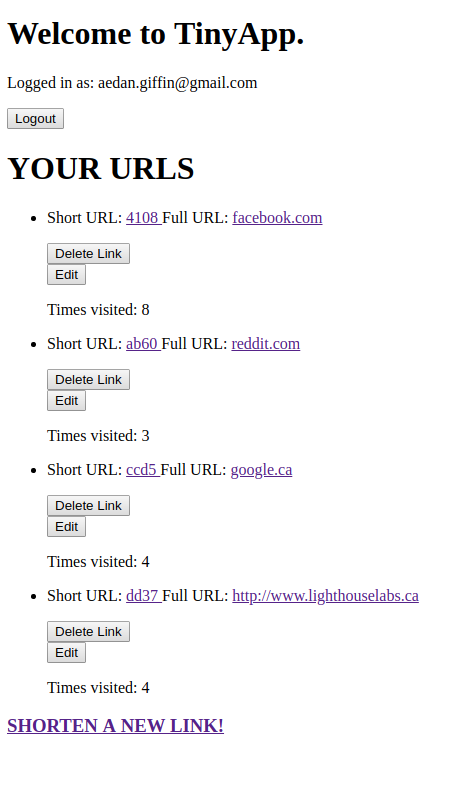
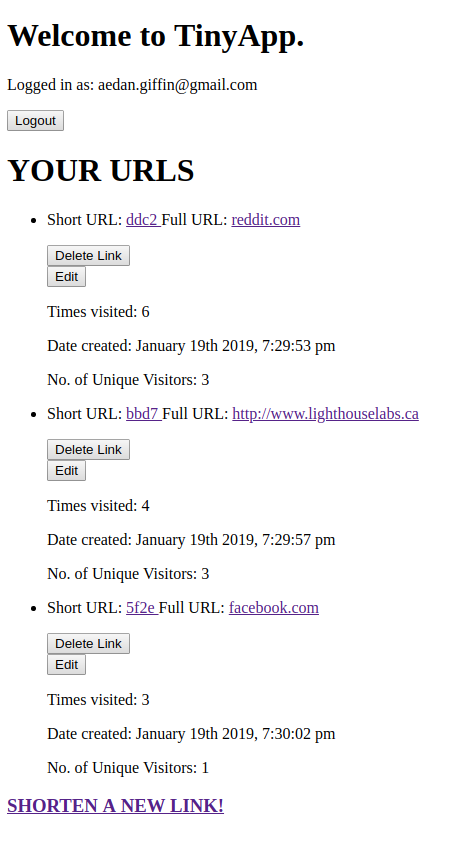
Committing changes to Readme (New dependency: moment.js and updated screenshots to include new features

Changed region(s): [[0.0, 0.0931, 0.9272, 0.9615], [0.0309, 0.031, 0.6799, 0.062]]

diff --git a/README.md b/README.md
@@ -18,6 +18,7 @@ TinyApp is a full stack web application built with Node and Express that allows 
 - bcrypt
 - body-parser
 - cookie-session
+- moment.js
 
 ## Getting Started
 - Install all dependencies ('npm install' in project directory)
